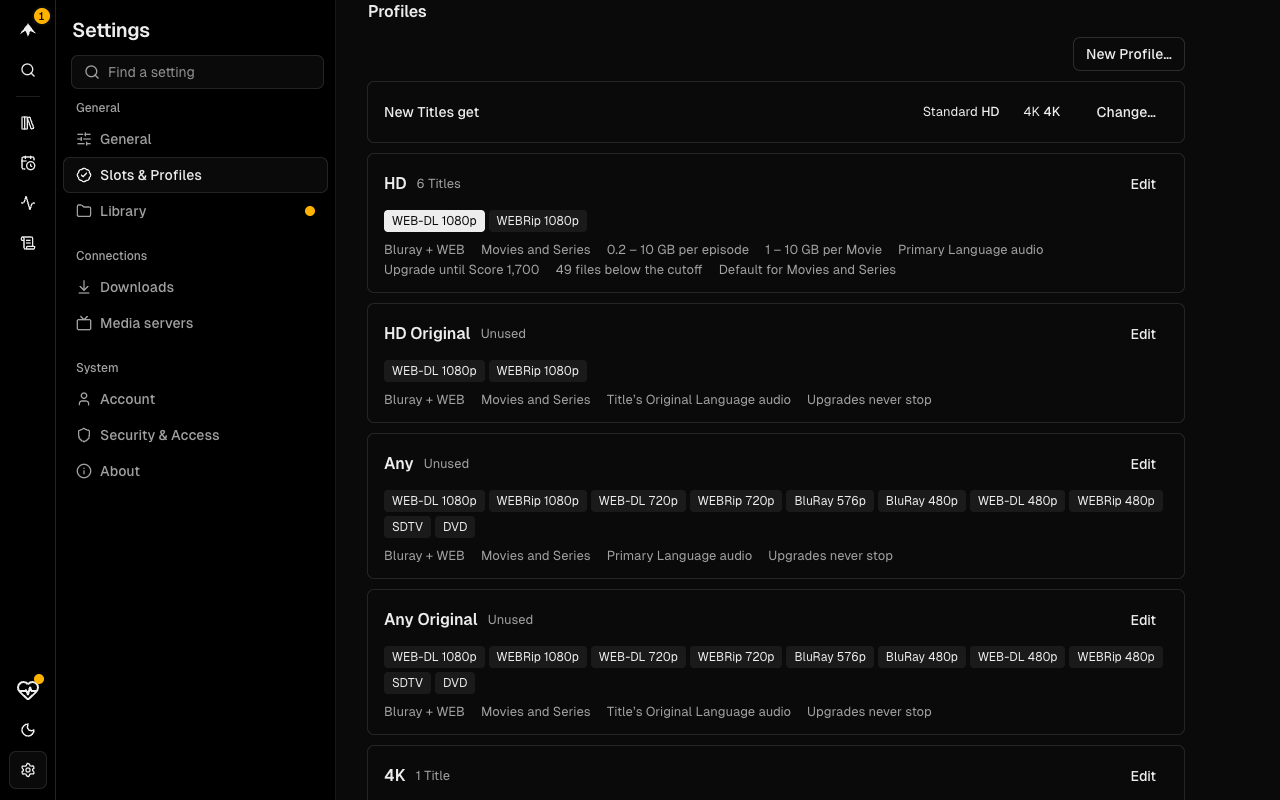
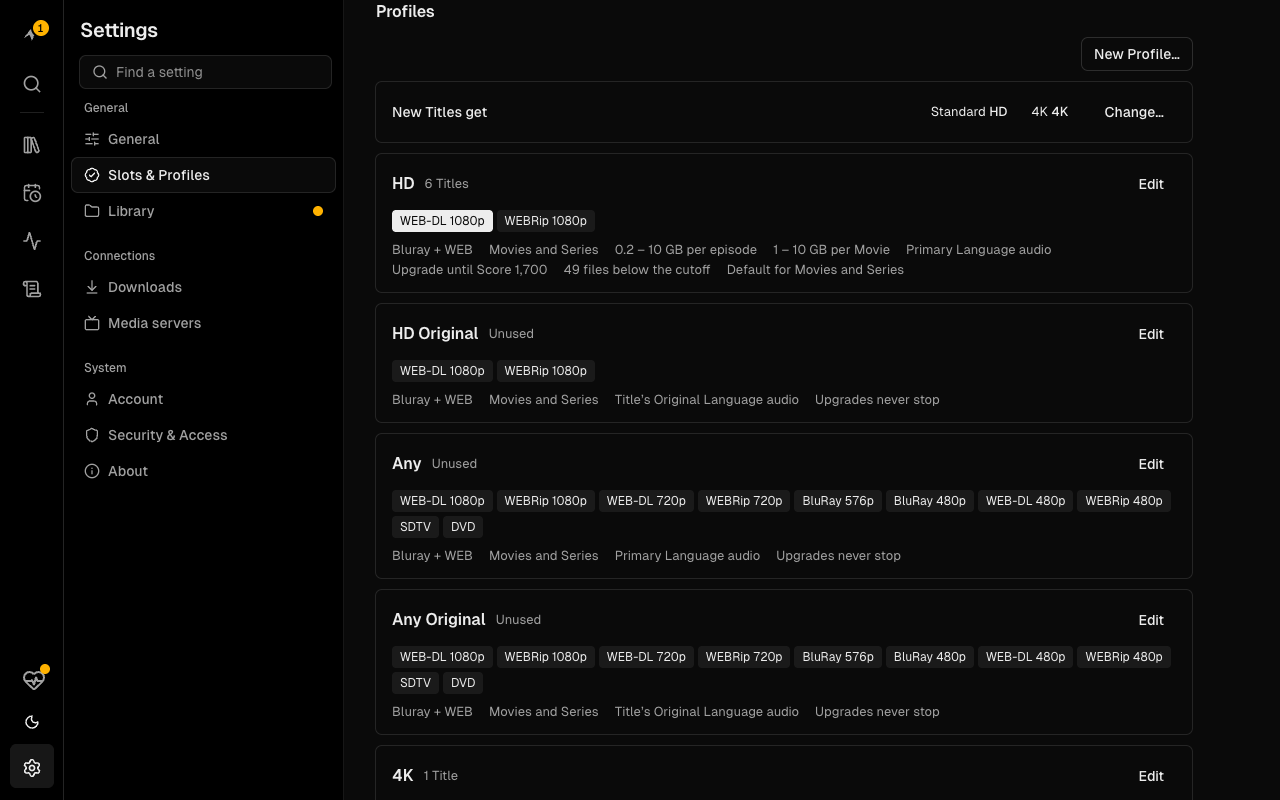
docs(guide): regenerate the screenshots for today's UI (#483)
The guide's screenshots showed the old labels and layouts: lower-case buttons and menu items from before #480, and screens hyprsh/design v0.21.0, the full-width Activity and the Library row short forms have since changed.

All 26 images in docs/guide/images are regenerated with make docs-shots, in light and dark; 22 changed. The shot script now opens the failed Grab row in Activity through its cover button, since the design row puts it over the text, and one guide line quotes Manual Search… in Title Case.

Closes #481

diff --git a/docs/guide/getting-started.md b/docs/guide/getting-started.md
@@ -186,7 +186,7 @@ You don't need to do anything else. Kestrel does this on its own:
   <img alt="A Series page with a Standard and a 4K Version, each row showing a bar of how many episodes are filled and how many are Wanted" src="images/04-series-light.png">
 </picture>
 
-The Title page shows each Version as a row with a bar and a line of counts (a Series' filled, Wanted and not monitored episodes, or a Movie's file or state), with the seasons below as a list: the first season with something Wanted opens by itself, and **Expand All** opens the rest. **Search Wanted** at the top of the page (and **Search Season** in an open season) searches straight away, and **Manual search…** in the menu beside it lists every Release, so you can choose one yourself.
+The Title page shows each Version as a row with a bar and a line of counts (a Series' filled, Wanted and not monitored episodes, or a Movie's file or state), with the seasons below as a list: the first season with something Wanted opens by itself, and **Expand All** opens the rest. **Search Wanted** at the top of the page (and **Search Season** in an open season) searches straight away, and **Manual Search…** in the menu beside it lists every Release, so you can choose one yourself.
 
 **Upcoming** is the timeline of what is airing or being released, from the last two weeks to the next two months, and where each one stands. Narrow it with the filter field (press `/`) or the Filter button: free text matches the Title and the episode's name, `kind:movie` or `kind:series` picks a kind, `is:wanted` and `is:imported` pick what is still to find or already in the Library, and a minus excludes (`-is:imported`). `?q=` in the address holds the filter, and a new session starts from the defaults in Settings > General > Display. On every screen with a filter field, the × in the field, Escape in it, or **Clear All** at the top of the Filter menu empties the whole filter.
 
